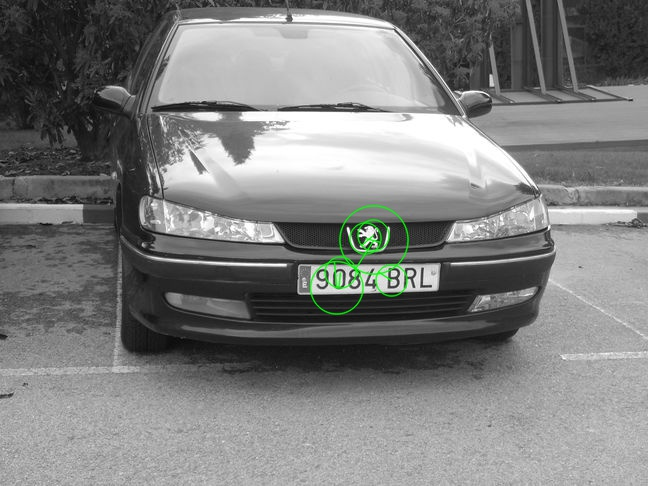
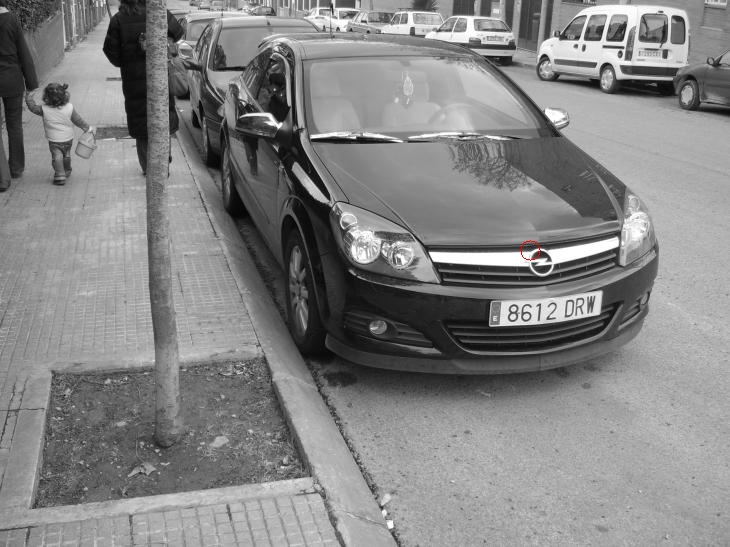
Sale el centrito

diff --git a/pruebaFlann.py b/pruebaFlann.py
@@ -21,6 +21,7 @@ for file in glob.glob('training/*.jpg'):
     imagenEntrenamiento = cv2.imread(file, 0)
     trainKP, trainDesc = detector.detectAndCompute(imagenEntrenamiento, None)
     flann.add([trainDesc])
+    flann.train()
     for i in range(len(trainKP)):
         kp = trainKP[i]
         points.append(trainKP[i])
@@ -29,73 +30,53 @@ for file in glob.glob('training/*.jpg'):
     else:
         descs = np.concatenate((descs, trainDesc))
 
+
+def maximo(acumulador):
+    max = 0
+    f = 0
+    c = 0
+    for fila in range(len(acumulador)):
+        for columna in range(len(acumulador)):
+            # Que el numero de votos sea maximo y que en su vecindad no haya un vecino sin votos
+            if acumulador[fila][columna] > max:
+                max = acumulador[fila][columna]
+                f = fila
+                c = columna
+
+    return (f*10, c*10)  # (Fila,Columna)
+
+
 def matchIndividual(img1):
     kp, des = detector.detectAndCompute(img1, None)
     knnmatches = flann.knnMatch(des, k=5)
-    salida = 0
-    salida = cv2.drawKeypoints(img1, kp, salida, (0, 255, 0), cv2.DRAW_MATCHES_FLAGS_DRAW_RICH_KEYPOINTS)
     res = []
-    '''''
-    for m, n in knnmatches:
-        if m.distance < n.distance - 4:
-            res.append(kp[m.queryIdx])
 
-    '''''
 
-    filtro = 13
-
+    filtro = 12.5
     for m, n, k, j, i in knnmatches:
+
         if m.distance < n.distance - filtro:
-            res.append(kp[m.queryIdx])
-        if n.distance < k.distance - filtro:
             res.append(kp[n.queryIdx])
-        if k.distance < j.distance - filtro:
+        if m.distance < k.distance - filtro:
             res.append(kp[k.queryIdx])
-        if j.distance < i.distance - filtro:
+        if m.distance < j.distance - filtro:
             res.append(kp[j.queryIdx])
+        if m.distance < i.distance - filtro:
+            res.append(kp[i.queryIdx])
 
-    print(res)
-    salida = cv2.drawKeypoints(img1, res, salida, (0, 255, 0), cv2.DRAW_MATCHES_FLAGS_DRAW_RICH_KEYPOINTS)
-
+    salida = 0
+    salida = cv2.drawKeypoints(img1, [], salida)
+    acumulador = np.zeros((int(img1.shape[0]/10)+20, int(img1.shape[1]/10)+20))  # Variable que acumulara los votos de los distintos keypoints
 
     centers = []
-    k = 0
-    for j in range(len(res)):
+    for j in res:
         centers.append(calc_center(j,imgPrueba))
-        print("Center",centers.__getitem__(k))
-        k = k+1
+        acumulador[int(j.pt[0]/10)][int(j.pt[1]/10)] += 1
+
+    cv2.circle(salida, maximo(acumulador), 10, (0, 0, 255), 1)
 
     return salida
 
-
-def orb(image):
-    imgPrueba = image
-    kp, des = detector.detectAndCompute(imgPrueba, None)
-    output = imgPrueba.copy()
-    imgPrueba = cv2.drawKeypoints(image, kp, imgPrueba, (0, 255, 0), cv2.DRAW_MATCHES_FLAGS_DRAW_RICH_KEYPOINTS)
-
-    knnmatches = flann.knnMatch(des, k=5)
-    encontrados = []
-    puntetes = []
-    res = []
-    for m, n in knnmatches:
-        print(n.distance)
-        print(m.distance)
-        if m.distance < 0.7 * n.distance:
-            res.append(m)
-    for i in range(len(res)):
-        match = res[i]
-        indice = match.trainIdx
-        imgIdx = match.imgIdx
-        encontrados.append(descs[indice])
-        puntetes.append(points[indice])
-
-    output = cv2.drawKeypoints(image, puntetes, output, (0, 255, 0), cv2.DRAW_MATCHES_FLAGS_DRAW_RICH_KEYPOINTS)
-    salida = 0
-    salida = cv2.drawMatches(imgPrueba, kp, output, points, res, flags=2, outImg=salida)
-
-
-    return salida
 
 #Codigo obtenido de https://github.com/rainer85ah/CV/blob/master/Project3/Main.py
 def calc_center(kp, img):
@@ -123,7 +104,7 @@ def calc_center(kp, img):
 
 
 
-imgPrueba = cv2.imread("testing/test16.jpg", 0)
+imgPrueba = cv2.imread("testing/test11.jpg", 0)
 imgdos = cv2.imread("training/frontal_27.jpg", 0)
 
 imOut = matchIndividual(imgPrueba)

diff --git a/deteccion_video.py b/deteccion_video.py
@@ -1,11 +1,13 @@
 import deteccion_haar
 import cv2
 
+import pruebaFlann
+
 cap = cv2.VideoCapture("Videos/video1.wmv")
 
 while(cap.isOpened()):
     ret, frame = cap.read()
-    img = deteccion_haar.haar(frame)
+    img = pruebaFlann.matchIndividual(frame)
     cv2.imshow('frame', img)
     if cv2.waitKey(1) & 0xFF == ord('q'):
         break
